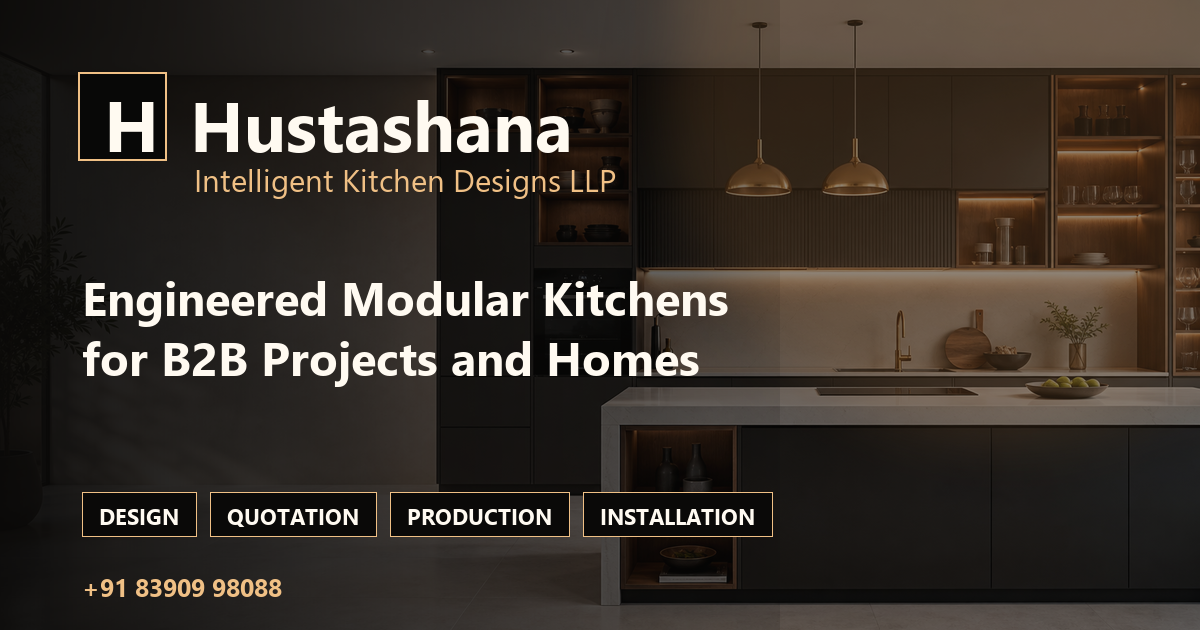
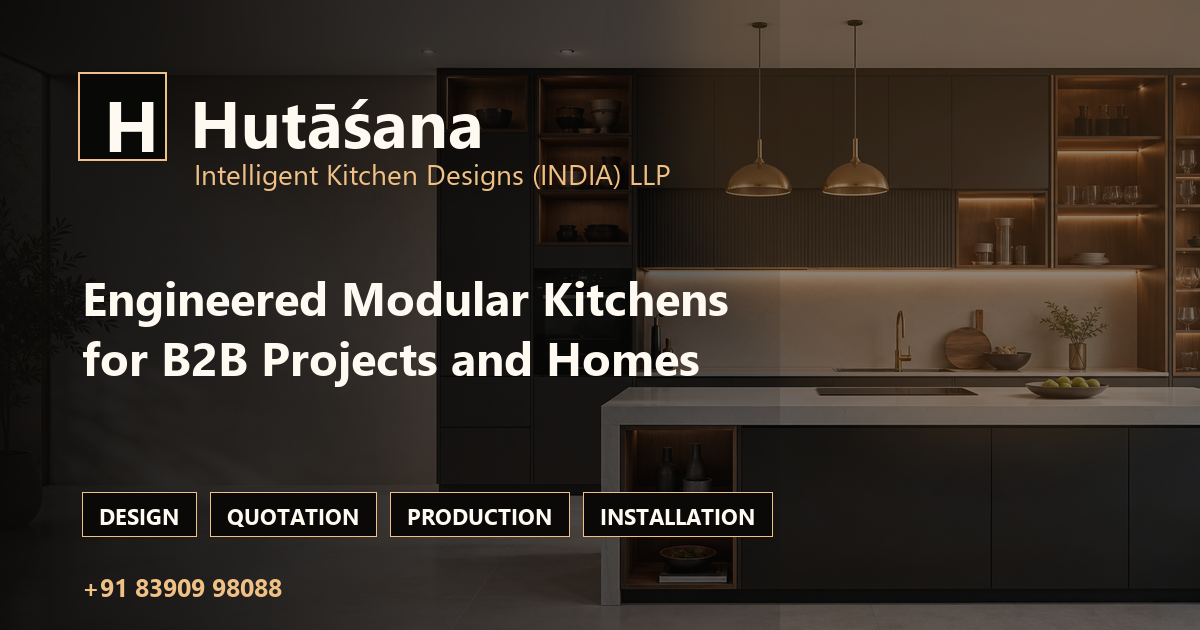
Rename brand to Hutasana India LLP

Changed region(s): [[0.1542, 0.1508, 0.555, 0.3317]]

diff --git a/app/page.tsx b/app/page.tsx
@@ -9,7 +9,7 @@ import {
 } from "./contact";
 
 const siteUrl =
-  process.env.NEXT_PUBLIC_SITE_URL ?? "https://hustashana-modular-kitchen.vercel.app";
+  process.env.NEXT_PUBLIC_SITE_URL ?? "https://hutasana-modular-kitchen.vercel.app";
 
 type LayoutCard = {
   no: string;
@@ -236,7 +236,7 @@ const premiumStrip = [
 const businessSchema = {
   "@context": "https://schema.org",
   "@type": "HomeAndConstructionBusiness",
-  name: "Hustashana Intelligent Kitchen Designs LLP",
+  name: "Hutāśana Intelligent Kitchen Designs (INDIA) LLP",
   url: siteUrl,
   image: `${siteUrl}/og-logo.png`,
   telephone: phoneDisplay,
@@ -279,11 +279,11 @@ function Header() {
       </header>
 
       <nav className="nav" aria-label="Main navigation">
-        <a className="brand" href="#top" aria-label="Hustashana home">
+        <a className="brand" href="#top" aria-label="Hutāśana home">
           <span className="brand__mark">H</span>
           <span>
-            <strong>Hustashana</strong>
-            <small>Intelligent Kitchen Designs LLP</small>
+            <strong>Hutāśana</strong>
+            <small>Intelligent Kitchen Designs (INDIA) LLP</small>
           </span>
         </a>
         <div className="nav__links">
@@ -304,7 +304,7 @@ function HeroSection() {
       <Image
         className="hero__image"
         src={heroImage}
-        alt="Premium modular kitchen designed by Hustashana"
+        alt="Premium modular kitchen designed by Hutāśana"
         fill
         priority
         sizes="100vw"
@@ -313,7 +313,7 @@ function HeroSection() {
         <p className="eyebrow">Intelligent modular kitchen studio</p>
         <h1>Precision kitchens for homes and projects.</h1>
         <p>
-          Hustashana brings design, specification, quotation, production, and
+          Hutāśana brings design, specification, quotation, production, and
           installation into one refined workflow for homeowners and B2B teams.
         </p>
         <div className="hero__chips" aria-label="Core services">
@@ -685,10 +685,10 @@ function ContactSection() {
         <h2>Contact Info</h2>
         <p>
           Need assistance with a project quotation, home kitchen plan, site
-          visit, or material selection? Share your enquiry and the Hustashana
+          visit, or material selection? Share your enquiry and the Hutāśana
           team will prepare the next step on WhatsApp.
         </p>
-        <div className="contact__details" aria-label="Hustashana contact details">
+        <div className="contact__details" aria-label="Hutāśana contact details">
           <a href={phoneHref}>
             <span aria-hidden="true">Call</span>
             {phoneDisplay}
@@ -717,11 +717,11 @@ function Footer() {
     <footer className="footer">
       <div className="footer__inner">
         <div>
-          <a className="brand brand--footer" href="#top" aria-label="Hustashana home">
+          <a className="brand brand--footer" href="#top" aria-label="Hutāśana home">
             <span className="brand__mark">H</span>
             <span>
-              <strong>Hustashana</strong>
-              <small>Intelligent Kitchen Designs LLP</small>
+              <strong>Hutāśana</strong>
+              <small>Intelligent Kitchen Designs (INDIA) LLP</small>
             </span>
           </a>
           <p>

diff --git a/app/layout.tsx b/app/layout.tsx
@@ -20,28 +20,28 @@ const geistMono = Geist_Mono({
 });
 
 const siteUrl =
-  process.env.NEXT_PUBLIC_SITE_URL ?? "https://hustashana-modular-kitchen.vercel.app";
+  process.env.NEXT_PUBLIC_SITE_URL ?? "https://hutasana-modular-kitchen.vercel.app";
 
 export const metadata: Metadata = {
   metadataBase: new URL(siteUrl),
   title: {
     default:
-      "Hustashana Intelligent Kitchen Designs LLP - Engineered Modular Kitchens for Projects and Homes",
-    template: "%s | Hustashana Intelligent Kitchen Designs LLP",
+      "Hutāśana Intelligent Kitchen Designs (INDIA) LLP - Engineered Modular Kitchens for Projects and Homes",
+    template: "%s | Hutāśana Intelligent Kitchen Designs (INDIA) LLP",
   },
   description:
-    "Premium modular kitchen design, specification, quotation, production, and installation for B2B projects and individual homes by Hustashana Intelligent Kitchen Designs LLP.",
-  applicationName: "Hustashana Kitchen Designs",
-  authors: [{ name: "Hustashana Intelligent Kitchen Designs LLP" }],
-  creator: "Hustashana Intelligent Kitchen Designs LLP",
-  publisher: "Hustashana Intelligent Kitchen Designs LLP",
+    "Premium modular kitchen design, specification, quotation, production, and installation for B2B projects and individual homes by Hutāśana Intelligent Kitchen Designs (INDIA) LLP.",
+  applicationName: "Hutāśana Kitchen Designs",
+  authors: [{ name: "Hutāśana Intelligent Kitchen Designs (INDIA) LLP" }],
+  creator: "Hutāśana Intelligent Kitchen Designs (INDIA) LLP",
+  publisher: "Hutāśana Intelligent Kitchen Designs (INDIA) LLP",
   keywords: [
     "modular kitchen",
     "modular kitchen design",
     "B2B kitchen quotation",
     "kitchen catalogue",
     "kitchen interiors",
-    "Hustashana",
+    "Hutāśana",
   ],
   alternates: {
     canonical: "/",
@@ -53,9 +53,9 @@ export const metadata: Metadata = {
   openGraph: {
     type: "website",
     url: "/",
-    siteName: "Hustashana Intelligent Kitchen Designs LLP",
+    siteName: "Hutāśana Intelligent Kitchen Designs (INDIA) LLP",
     title:
-      "Hustashana Intelligent Kitchen Designs LLP - Engineered Modular Kitchens",
+      "Hutāśana Intelligent Kitchen Designs (INDIA) LLP - Engineered Modular Kitchens",
     description:
       "Design, specification, quotation, production, and installation for B2B modular kitchen projects and individual homes.",
     images: [
@@ -63,14 +63,14 @@ export const metadata: Metadata = {
         url: "/og-logo.png",
         width: 1200,
         height: 630,
-        alt: "Hustashana Intelligent Kitchen Designs LLP logo and modular kitchen preview",
+        alt: "Hutāśana Intelligent Kitchen Designs (INDIA) LLP logo and modular kitchen preview",
       },
     ],
   },
   twitter: {
     card: "summary_large_image",
     title:
-      "Hustashana Intelligent Kitchen Designs LLP - Engineered Modular Kitchens",
+      "Hutāśana Intelligent Kitchen Designs (INDIA) LLP - Engineered Modular Kitchens",
     description:
       "B2B and individual modular kitchen catalogue with technical specifications, workflow clarity, and WhatsApp quotation enquiry.",
     images: ["/og-logo.png"],

diff --git a/app/contact.ts b/app/contact.ts
@@ -5,11 +5,11 @@ export const officeAddress =
   "Building B, Office 317, Suratwalla Mark Plazzo, S. No. 27, Mulshi, Hinjawadi, Pune 411057, India";
 
 const baseMessage =
-  "Hello Hustashana Intelligent Kitchen Designs LLP, I want a modular kitchen quotation.";
+  "Hello Hutāśana Intelligent Kitchen Designs (INDIA) LLP, I want a modular kitchen quotation.";
 
 export const whatsappMessages = {
   general:
-    "Hello Hustashana Intelligent Kitchen Designs LLP, I am sharing my details for a modular kitchen quotation.",
+    "Hello Hutāśana Intelligent Kitchen Designs (INDIA) LLP, I am sharing my details for a modular kitchen quotation.",
   default: baseMessage,
   b2b: `${baseMessage} This is a B2B project enquiry.`,
   individual: `${baseMessage} This is for my home kitchen.`,

diff --git a/app/manifest.ts b/app/manifest.ts
@@ -2,8 +2,8 @@ import type { MetadataRoute } from "next";
 
 export default function manifest(): MetadataRoute.Manifest {
   return {
-    name: "Hustashana Intelligent Kitchen Designs LLP",
-    short_name: "Hustashana",
+    name: "Hutāśana Intelligent Kitchen Designs (INDIA) LLP",
+    short_name: "Hutāśana",
     description:
       "Premium modular kitchen catalogue, quotation, and planning for B2B projects and individual homes.",
     start_url: "/",

diff --git a/app/sitemap.ts b/app/sitemap.ts
@@ -1,7 +1,7 @@
 import type { MetadataRoute } from "next";
 
 const siteUrl =
-  process.env.NEXT_PUBLIC_SITE_URL ?? "https://hustashana-modular-kitchen.vercel.app";
+  process.env.NEXT_PUBLIC_SITE_URL ?? "https://hutasana-modular-kitchen.vercel.app";
 
 export default function sitemap(): MetadataRoute.Sitemap {
   return [

diff --git a/app/robots.ts b/app/robots.ts
@@ -1,7 +1,7 @@
 import type { MetadataRoute } from "next";
 
 const siteUrl =
-  process.env.NEXT_PUBLIC_SITE_URL ?? "https://hustashana-modular-kitchen.vercel.app";
+  process.env.NEXT_PUBLIC_SITE_URL ?? "https://hutasana-modular-kitchen.vercel.app";
 
 export default function robots(): MetadataRoute.Robots {
   return {

diff --git a/README.md b/README.md
@@ -1,6 +1,6 @@
-# Hustashana Intelligent Kitchen Designs LLP
+# Hutāśana Intelligent Kitchen Designs (INDIA) LLP
 
-Production-ready modular kitchen catalogue website for Hustashana Intelligent Kitchen Designs LLP.
+Production-ready modular kitchen catalogue website for Hutāśana Intelligent Kitchen Designs (INDIA) LLP.
 
 The site serves two audiences:
 
@@ -62,7 +62,7 @@ Set this to the final client domain before production launch. It is used by cano
 - `app/robots.ts`: robots route.
 - `app/manifest.ts`: web app manifest.
 - `public/assets/`: kitchen visuals used across the site.
-- `public/og-logo.png`: social sharing image with the Hustashana logo mark.
+- `public/og-logo.png`: social sharing image with the Hutāśana logo mark.
 
 ## Updating Business Details
 
